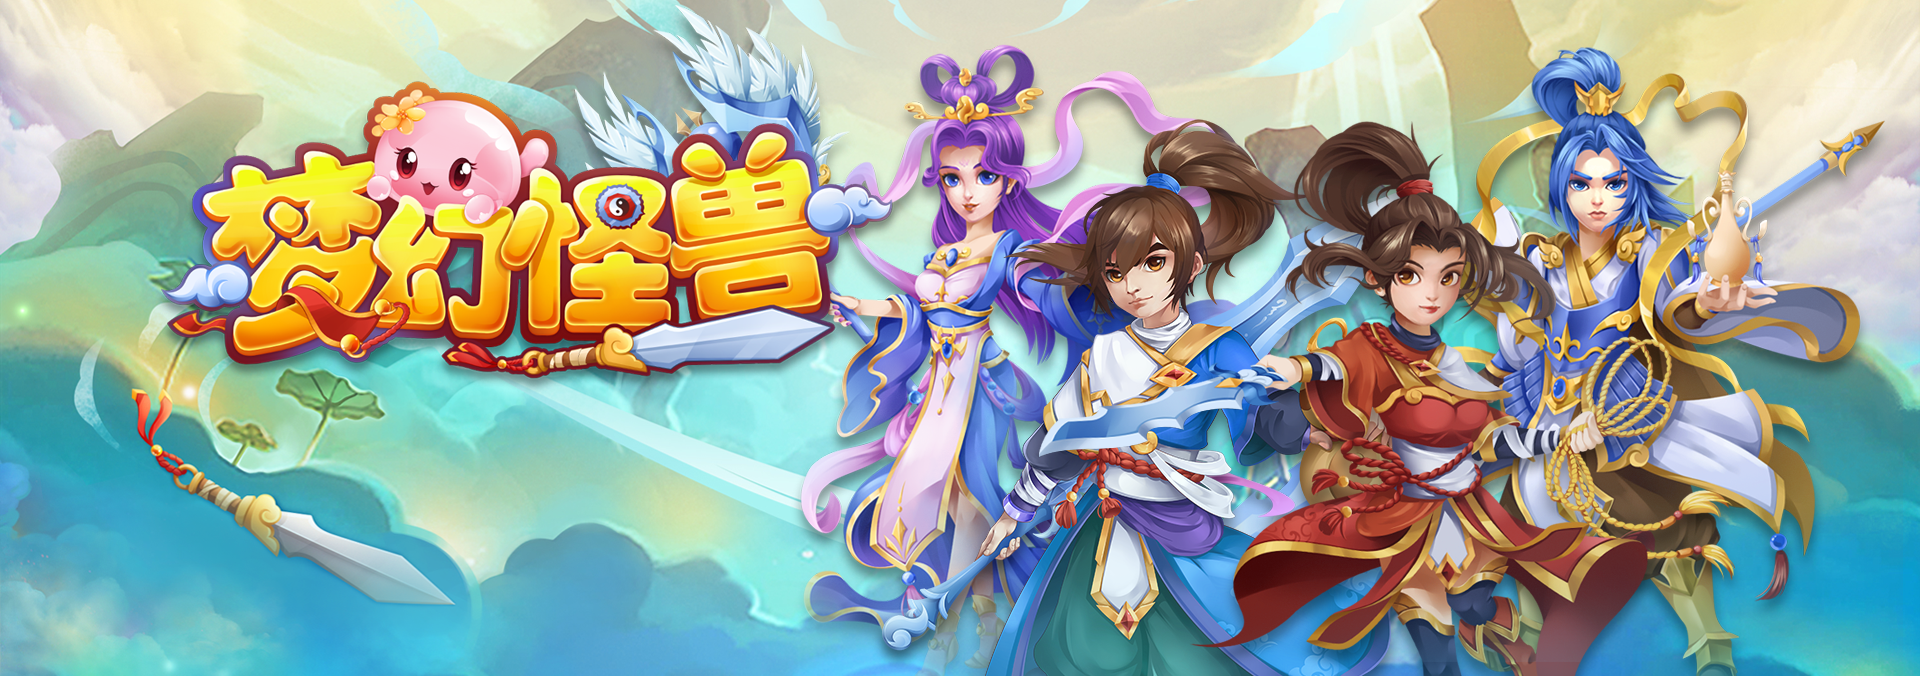
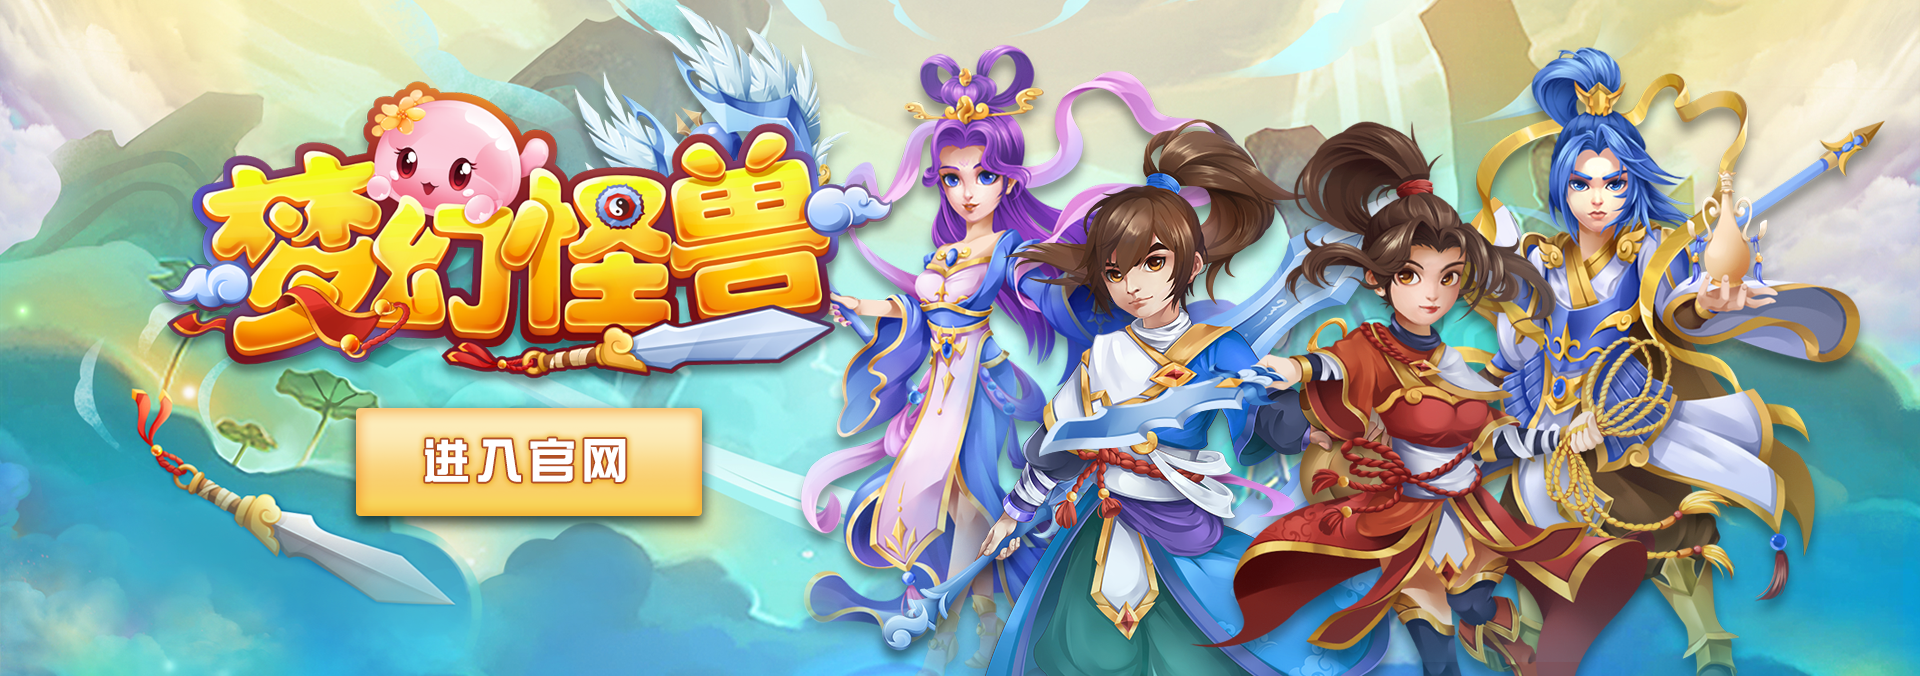
优化

Changed region(s): [[0.1562, 0.5902, 0.375, 0.8077]]

diff --git a/src/views/Home.vue b/src/views/Home.vue
@@ -1,7 +1,7 @@
 <!--
  * @Author: your name
  * @Date: 2021-01-21 10:40:03
- * @LastEditTime: 2021-01-26 12:08:14
+ * @LastEditTime: 2021-01-26 12:31:21
  * @LastEditors: Please set LastEditors
  * @Description: In User Settings Edit
  * @FilePath: \offical\src\views\Home.vue
@@ -12,7 +12,7 @@
     
     <div class="home-banner">
       <lg-swiper></lg-swiper>
-      <img src="../assets/image/enter.png" class="banner-btn">
+      <!-- <img src="../assets/image/enter.png" class="banner-btn"> -->
     </div>
     <div class="product-center">
       <div class="center-title">
